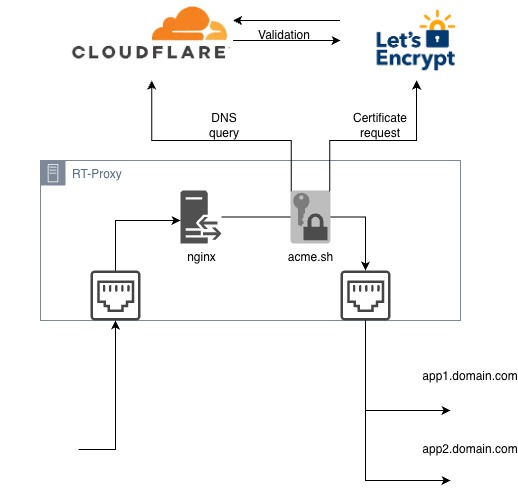
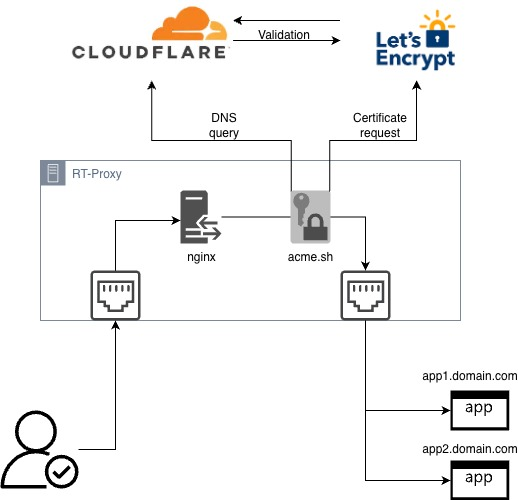
Initial Release

Changed region(s): [[0.0, 0.81, 0.1544, 0.99], [0.8649, 0.9, 0.9884, 1.0], [0.8649, 0.78, 0.9884, 0.87]]

diff --git a/README.md b/README.md
@@ -1,7 +1,10 @@
-<<<<<<< HEAD
-# RtProxy
-Self-contained installer for a lightweight Nginx reverse proxy with automatic TLS management using acme.sh
-=======
+# RTProxy
+
+Self-contained installer for a lightweight Nginx reverse proxy with
+automatic TLS management using acme.sh
+
+------------------------------------------------------------------------
+
 # RTProxy -- Lightweight Automated Reverse Proxy with TLS
 
 RTProxy is a **lightweight reverse proxy automation framework** designed
@@ -38,19 +41,7 @@ RTProxy was designed with the following priorities:
 
 # High-Level Architecture
 
-                Internet / LAN
-                       |
-                       |
-                +-------------+
-                |   RTProxy   |
-                |   Nginx     |
-                +-------------+
-                     |
-        +------------+------------+
-        |                         |
-
-Internal Service A Internal Service B http://10.0.0.5:3000
-https://10.0.0.10:8443 (Grafana) (Proxmox)
+  ![Architecture](images/RT-Proxy.jpg)
 
 RTProxy performs:
 
@@ -68,22 +59,6 @@ For **maximum performance and network isolation**, RTProxy requires
 
 This design separates **north‑south traffic** (client access) from
 **east‑west traffic** (backend services).
-
-Recommended architecture:
-
-                Internet / LAN
-                        |
-                        |
-                eth0 (Ingress Interface)
-                        |
-                +-----------------+
-                |     RTProxy     |
-                |      Nginx      |
-                +-----------------+
-                        |
-                eth1 (Backend Interface)
-                        |
-               Internal Service Network
 
 Benefits:
 
@@ -162,12 +137,12 @@ sudo bash install-rtproxy.sh
 
 The installer performs:
 
-1.  Dependency installation
-2.  Nginx installation and configuration
-3.  acme.sh installation
-4.  CLI tool installation
-5.  Directory structure creation
-6.  Logging configuration
+1.  Dependency installation\
+2.  Nginx installation and configuration\
+3.  acme.sh installation\
+4.  CLI tool installation\
+5.  Directory structure creation\
+6.  Logging configuration\
 7.  TLS configuration
 
 ------------------------------------------------------------------------
@@ -214,9 +189,9 @@ Example:
 
 RTProxy automatically:
 
-1.  requests a TLS certificate
-2.  installs the certificate
-3.  generates nginx configuration
+1.  requests a TLS certificate\
+2.  installs the certificate\
+3.  generates nginx configuration\
 4.  reloads nginx
 
 Result:
@@ -295,6 +270,132 @@ Example:
     ACME_SERVER="letsencrypt"
     WARN_DAYS="14"
     CRIT_DAYS="7"
+
+------------------------------------------------------------------------
+
+# Cloudflare DNS-01 Validation Setup
+
+RTProxy supports issuing TLS certificates using **DNS-01 validation
+through Cloudflare**.
+
+This mode is recommended when:
+
+-   services are **internal only**
+-   port **80 cannot be opened**
+-   infrastructure must remain **private**
+-   certificates are required for **management platforms**
+
+Examples:
+
+    grafana.internal.example.com
+    proxmox.lab.example.com
+    netbox.mgmt.example.com
+
+DNS-01 validation allows Let's Encrypt to verify domain ownership by
+checking a temporary **TXT record in DNS**.
+
+------------------------------------------------------------------------
+
+## Creating a Cloudflare API Token
+
+Open the Cloudflare dashboard:
+
+    https://dash.cloudflare.com/profile/api-tokens
+
+Select:
+
+    Create Token
+
+Choose:
+
+    Custom Token
+
+------------------------------------------------------------------------
+
+## Required Token Permissions
+
+Configure the token with the following permissions.
+
+  Permission           Purpose
+  -------------------- ------------------------------------
+  Zone → DNS → Edit    Create and remove ACME TXT records
+  Zone → Zone → Read   Discover zone configuration
+
+Example permission set:
+
+    Zone.DNS:Edit
+    Zone.Zone:Read
+
+------------------------------------------------------------------------
+
+## Restrict Token Scope
+
+For security reasons the token should be limited to the specific DNS
+zone used by RTProxy.
+
+Example:
+
+    example.com
+
+Avoid granting access to **All Zones** unless absolutely necessary.
+
+------------------------------------------------------------------------
+
+## Configure RTProxy
+
+Edit the configuration file:
+
+    /etc/rtproxy/config.env
+
+Add:
+
+    DNS_PROVIDER="dns_cf"
+    CF_Token=YOUR_CLOUDFLARE_API_TOKEN
+
+Example:
+
+    DNS_PROVIDER="dns_cf"
+    CF_Token=xxxxxxxxxxxxxxxxxxxxxxxxxxxx
+
+------------------------------------------------------------------------
+
+## DNS Validation Workflow
+
+During certificate issuance the following process occurs:
+
+1.  RTProxy requests a certificate via **acme.sh**\
+2.  acme.sh creates a TXT record in Cloudflare
+
+Example:
+
+    _acme-challenge.example.com
+
+3.  Cloudflare publishes the TXT record\
+4.  Let's Encrypt queries the DNS record\
+5.  Domain ownership is validated\
+6.  Certificate is issued\
+7.  acme.sh removes the TXT record automatically
+
+This process normally completes within **10-30 seconds** depending on
+DNS propagation.
+
+------------------------------------------------------------------------
+
+## Manual DNS Challenge Test
+
+You can verify Cloudflare integration using:
+
+    acme.sh --issue \
+      --dns dns_cf \
+      -d test.example.com
+
+During validation a TXT record will appear:
+
+    _acme-challenge.test.example.com
+
+Check propagation with:
+
+    dig TXT _acme-challenge.test.example.com
 
 ------------------------------------------------------------------------
 
@@ -406,4 +507,3 @@ MIT License
 # Author
 
 Luca Biancorosso
->>>>>>> b524a99 (Initial Release)
